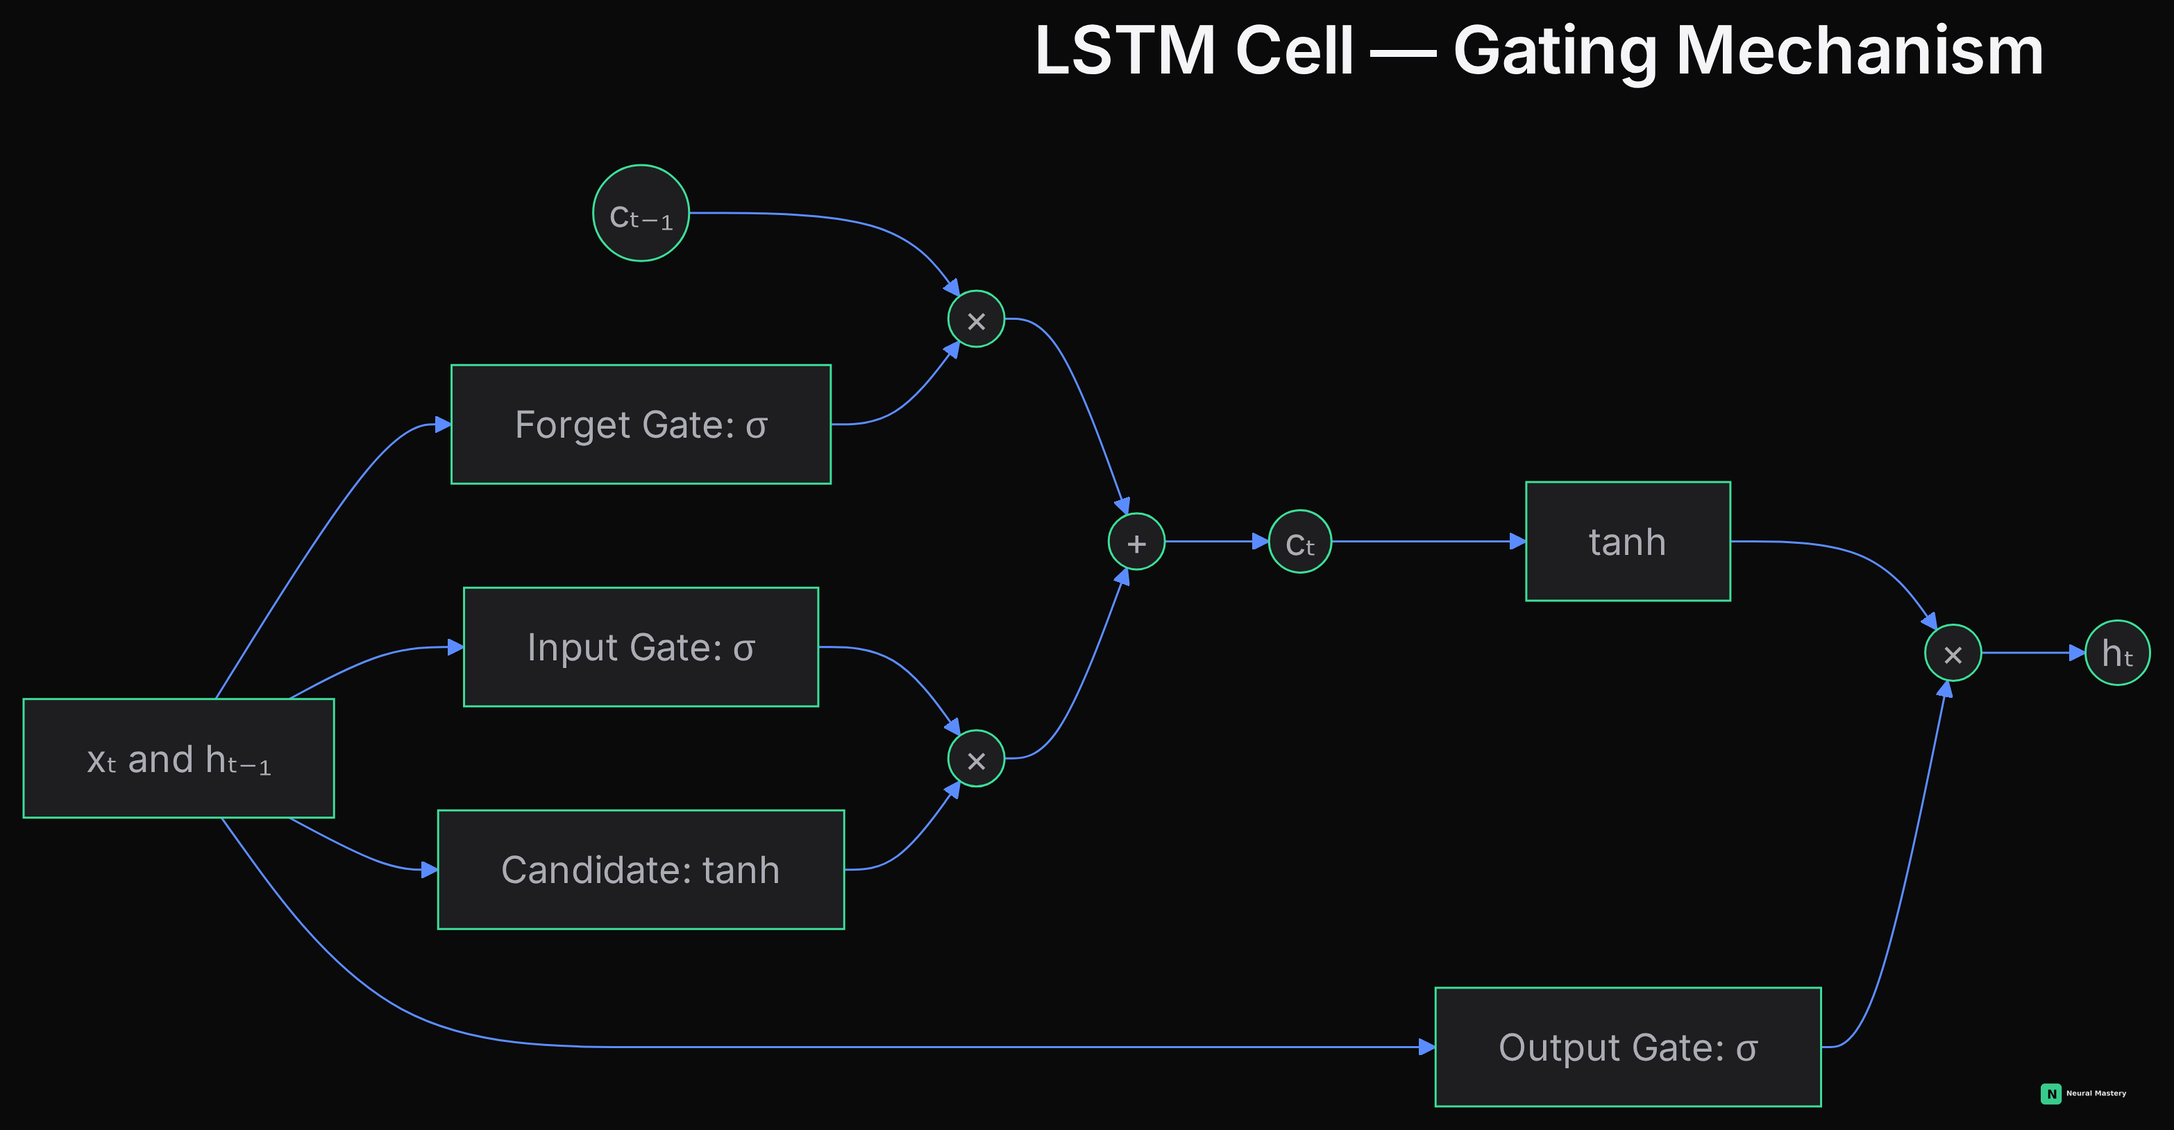
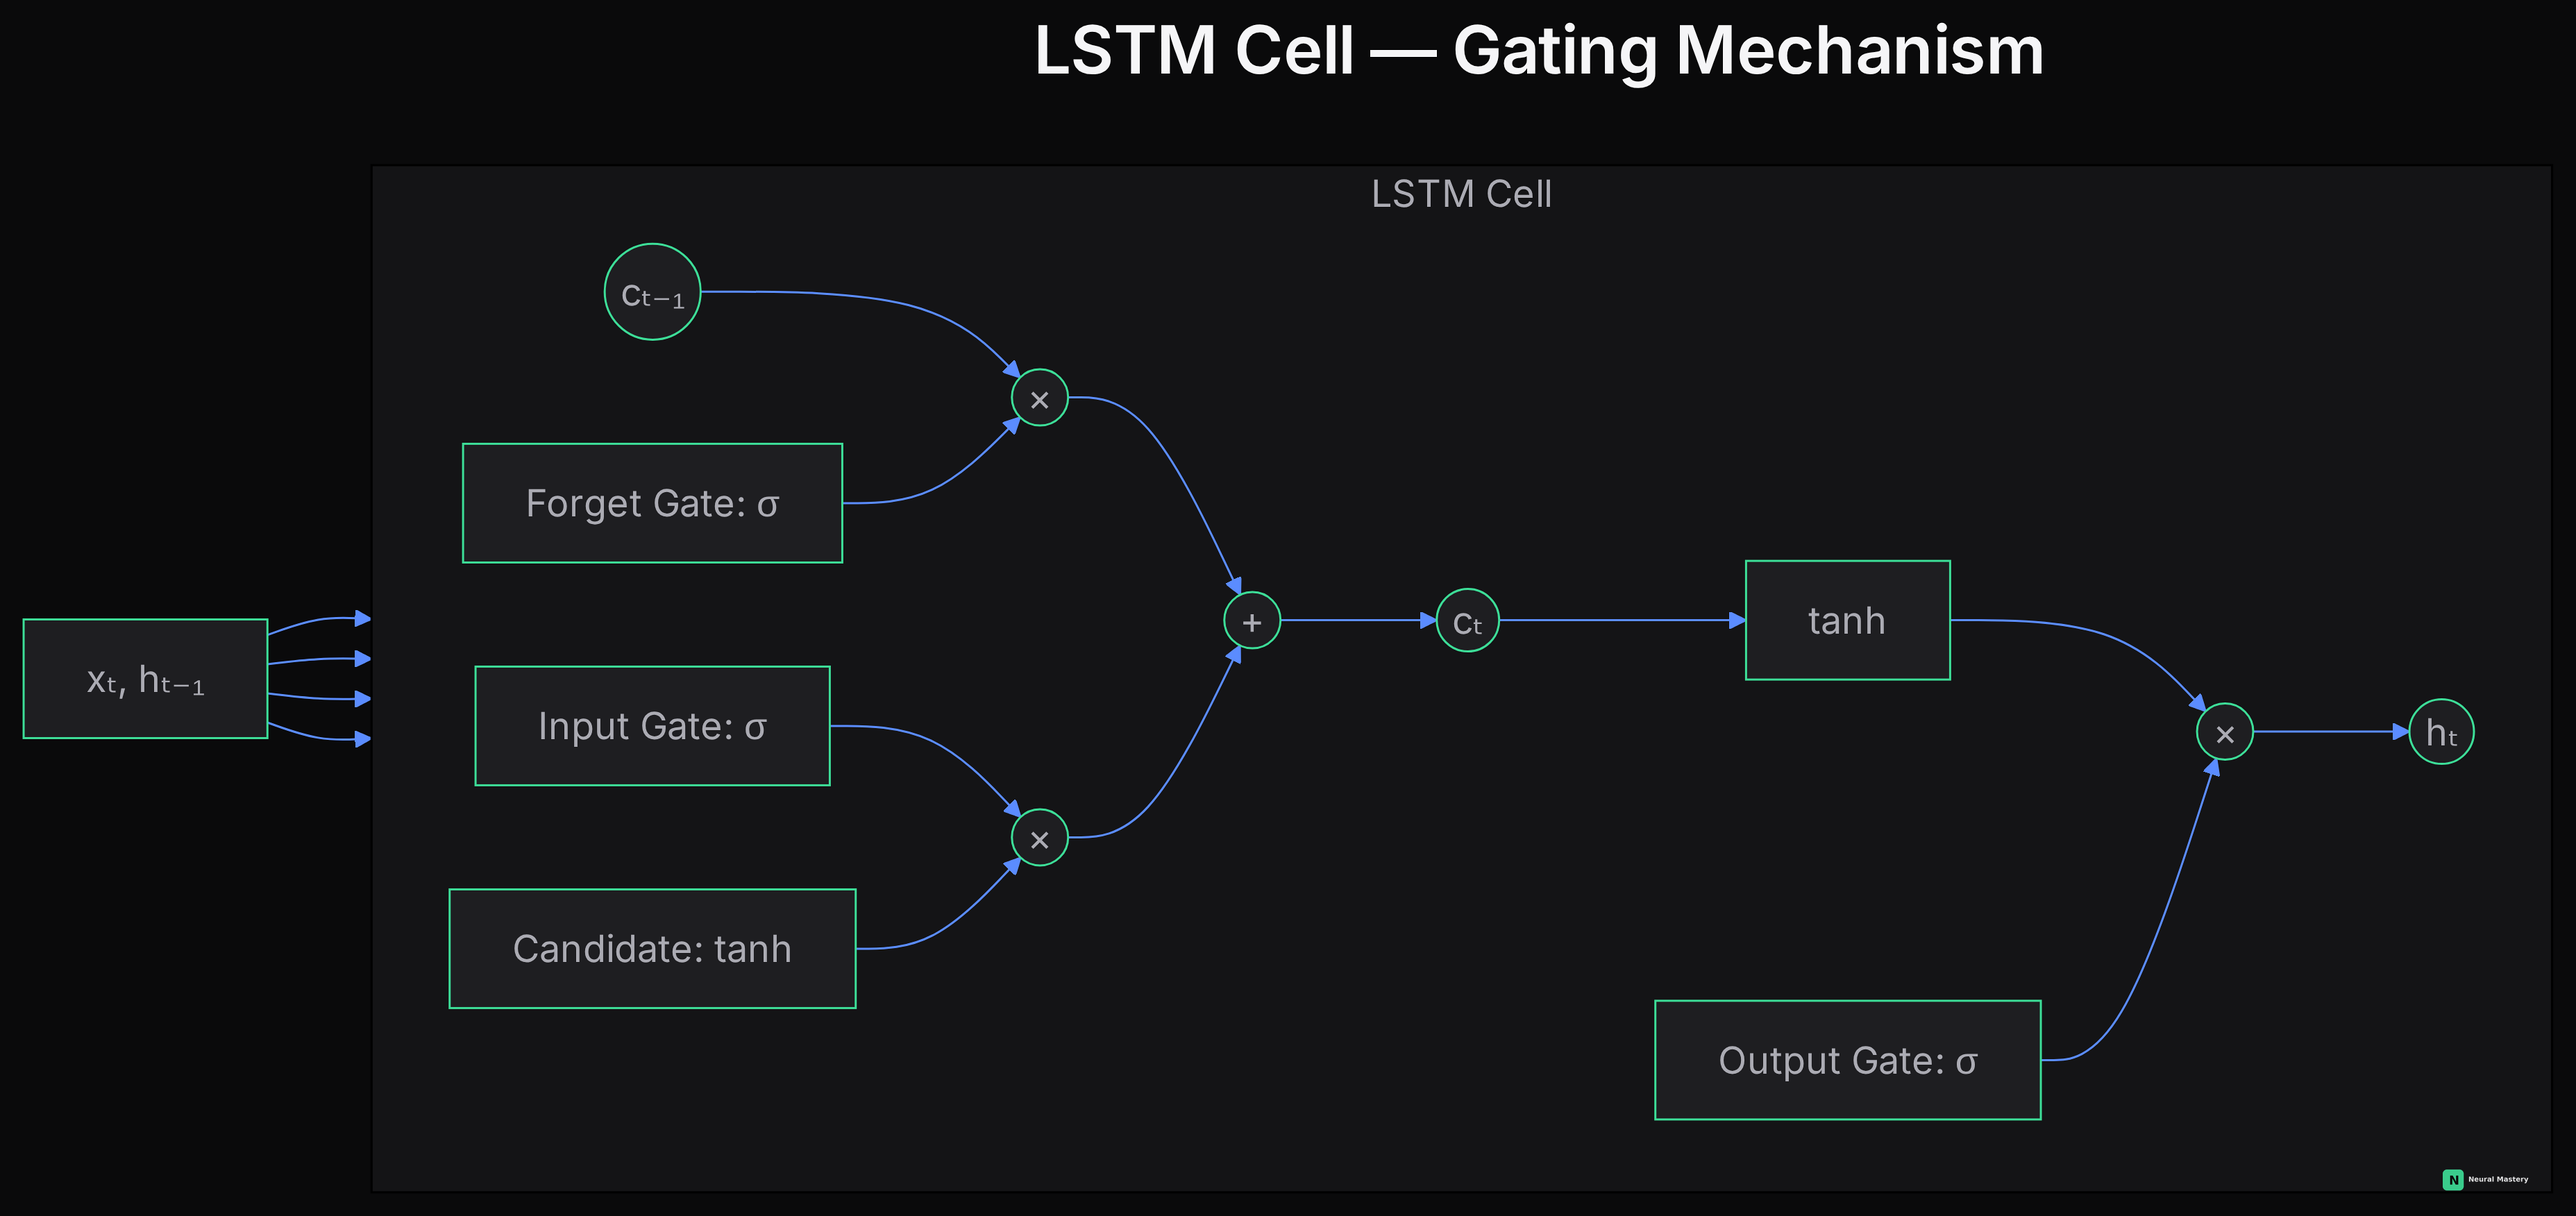
Add real gate equations for RNN/LSTM/GRU, bound the cell diagrams
User shared a reference LSTM diagram (standard textbook style: a bounded
cell box, gates as small labeled boxes, full equations printed alongside)
and asked for the site to match that standard. Two changes:

1. Redrew the LSTM and GRU diagrams with an explicit subgraph boundary
around the cell internals (mermaid subgraph), directly mirroring the
reference's bounded-box convention -- input xt/ht-1 enters from outside
the box, ct/ht exit from it, matching how every standard LSTM figure
draws the cell as a self-contained unit.

2. Added the actual equations, which the page never had at all before
(diagrams only, no math) -- real forget/input/output gate formulas for
LSTM (with the Hadamard/elementwise-product distinction made explicit,
since gating is elementwise scaling, not a matrix multiply), and
update/reset gate formulas for GRU, plus the RNN's own ht = tanh(Wh
ht-1 + Wx xt + b) with a note on why weight-sharing across time steps
is exactly what makes backprop-through-time's gradient problem happen.
Matches this site's standing practice of pairing every diagram with the
real math, not just a picture.

Build-verified clean; confirmed both diagrams and the new equations
render in the built HTML.

diff --git a/docs/deep-learning/sequence-models.md b/docs/deep-learning/sequence-models.md
@@ -25,7 +25,11 @@ Most of the models covered elsewhere on this site (linear/logistic regression, a
 
 ## Recurrent Neural Networks (RNNs)
 
-An RNN processes a sequence one element at a time, maintaining a **hidden state** that's updated at each step and carries information forward: $h_t = f(h_{t-1}, x_t)$. In principle, this lets information from any earlier point in the sequence influence later predictions.
+An RNN processes a sequence one element at a time, maintaining a **hidden state** that's updated at each step and carries information forward. Written out with its actual weights:
+
+$$h_t = \tanh\left(W_h h_{t-1} + W_x x_t + b\right)$$
+
+The same weight matrices $W_h$, $W_x$, $b$ are reused at *every* time step — this weight sharing is what lets an RNN handle sequences of any length with a fixed number of parameters, and it's also exactly why gradients have to flow through so many repeated multiplications during training (below). In principle, this lets information from any earlier point in the sequence influence later predictions.
 
 ![RNN unrolled through time — the same cell and weights reused at every step, with the hidden state carried forward](./img/rnn-unrolled.png)
 
@@ -33,11 +37,27 @@ An RNN processes a sequence one element at a time, maintaining a **hidden state*
 
 ## LSTM and GRU
 
-**LSTM (Long Short-Term Memory)** introduces a separate "cell state" plus gating mechanisms (input, forget, output gates) that explicitly control what information gets added, kept, or discarded at each step — a direct, engineered fix for the vanishing gradient problem in RNNs.
+**LSTM (Long Short-Term Memory)** introduces a separate "cell state" $c_t$ plus three gates — forget, input, output — that explicitly control what information gets added, kept, or discarded at each step, each one its own small learned layer:
+
+$$f_t = \sigma\left(W_f [h_{t-1}, x_t] + b_f\right) \qquad \text{forget gate}$$
+$$i_t = \sigma\left(W_i [h_{t-1}, x_t] + b_i\right) \qquad \text{input gate}$$
+$$o_t = \sigma\left(W_o [h_{t-1}, x_t] + b_o\right) \qquad \text{output gate}$$
+$$\tilde{c}_t = \tanh\left(W_c [h_{t-1}, x_t] + b_c\right) \qquad \text{candidate values}$$
+$$c_t = f_t \odot c_{t-1} + i_t \odot \tilde{c}_t \qquad \text{new cell state}$$
+$$h_t = o_t \odot \tanh(c_t) \qquad \text{new hidden state}$$
+
+where $[h_{t-1}, x_t]$ is the previous hidden state concatenated with the current input, and $\odot$ is the **Hadamard (elementwise) product** — each gate is a vector of values in $(0,1)$ that scales its target *elementwise*, not a full matrix multiply. Read the two middle lines directly as the whole mechanism: the forget gate decides how much of the old cell state to keep, the input gate decides how much of the new candidate to add — both are $\sigma$-gated so each is a soft "keep this fraction" decision per dimension, computed fresh every time step by the gates above.
 
 ![LSTM cell — forget, input, and output gates controlling what's added to, kept in, and read from the cell state](./img/lstm-cell.png)
 
-**GRU (Gated Recurrent Unit)** simplifies LSTM's gating into two gates instead of three (reset and update, no separate cell state), with fewer parameters and often comparable performance — a common practical choice when compute is limited.
+**GRU (Gated Recurrent Unit)** simplifies LSTM's gating into two gates instead of three (reset and update, no separate cell state), with fewer parameters and often comparable performance — a common practical choice when compute is limited:
+
+$$z_t = \sigma\left(W_z [h_{t-1}, x_t] + b_z\right) \qquad \text{update gate}$$
+$$r_t = \sigma\left(W_r [h_{t-1}, x_t] + b_r\right) \qquad \text{reset gate}$$
+$$\tilde{h}_t = \tanh\left(W_h [r_t \odot h_{t-1}, x_t] + b_h\right) \qquad \text{candidate hidden state}$$
+$$h_t = (1 - z_t) \odot h_{t-1} + z_t \odot \tilde{h}_t \qquad \text{new hidden state}$$
+
+The last line is a direct interpolation between the old hidden state and the new candidate, controlled entirely by $z_t$ — no separate cell state to maintain, which is exactly where GRU's parameter savings come from. The reset gate $r_t$ decides how much of the *old* hidden state gets used when computing the new candidate in the first place.
 
 ![GRU cell — a reset gate and an update gate interpolating between the old hidden state and a new candidate](./img/gru-cell.png)
 
